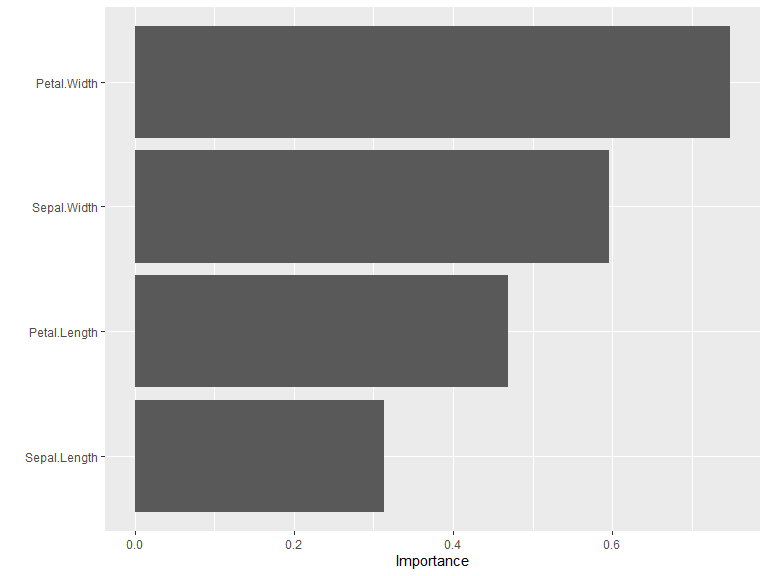
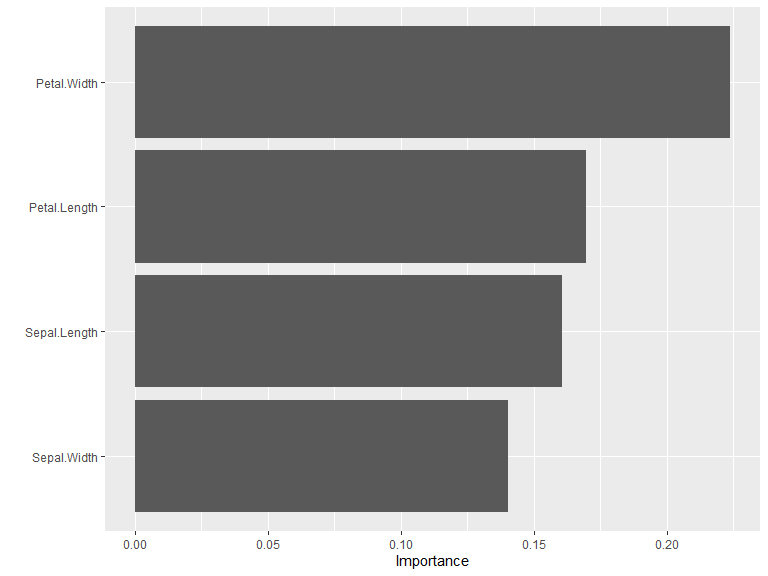
Update README

diff --git a/README.md b/README.md
@@ -14,7 +14,7 @@ status](https://www.r-pkg.org/badges/version/kindling)](https://CRAN.R-project.o
 
 ## Package overview
 
-Title: ***Higher-Level Interface of Torch to Auto-Train Neural
+Title: ***Higher-Level Interface of ‘torch’ Package to Auto-Train Neural
 Networks***
 
 Whether you’re generating neural network architectures expressions or
@@ -65,12 +65,13 @@ Or install the development version from GitHub:
 ``` r
 # install.packages("pak")
 pak::pak("joshuamarie/kindling")
+## devtools::install_github("joshuamarie/kindling") 
 ```
 
 ## Usage: Three Levels of Interaction
 
 `{kindling}` is powered by R’s metaprogramming capabilities through
-*code generation*. Generated `torch::nn_module` expressions power the
+*code generation*. Generated `torch::nn_module()` expressions power the
 training functions, which in turn serve as engines for `{tidymodels}`
 integration. This architecture gives you flexibility to work at whatever
 abstraction level suits your task.
@@ -82,6 +83,13 @@ library(kindling)
 #> The following object is masked from 'package:base':
 #> 
 #>     args
+```
+
+Before starting, you need to install LibTorch, the backend of PyTorch
+which also the backend of `{torch}` R package:
+
+``` r
+torch::install_torch()
 ```
 
 ### Level 1: Code Generation for `torch::nn_module`
@@ -183,7 +191,7 @@ Two kinds of `predict()` usage:
     #>             predicted
     #> actual       setosa versicolor virginica
     #>   setosa         50          0         0
-    #>   versicolor      0         47         3
+    #>   versicolor      0         49         1
     #>   virginica       0          1        49
     ```
 
@@ -198,7 +206,7 @@ Two kinds of `predict()` usage:
     #>             predicted
     #> actual       setosa versicolor virginica
     #>   setosa         10          0         0
-    #>   versicolor      0          9         1
+    #>   versicolor      0         10         0
     #>   virginica       0          0        10
     ```
 
@@ -265,7 +273,7 @@ hyperparameter tuning via `{tune}` with searchable parameters.
 The current searchable parameters under `{kindling}`:
 
 - Layer widths (neurons per layer)
-- Network depth (number of hidden layers - coming soon)
+- Network depth (number of hidden layers)
 - Activation function combinations
 - Output activation
 - Optimizer (Type of optimization algorithm)
@@ -279,6 +287,7 @@ The searchable parameters outside from `{kindling}`, i.e. under
 Here’s an example:
 
 ``` r
+# library(tidymodels)
 box::use(
     kindling[
         mlp_kindling, hidden_neurons, activations, output_activation, grid_depth
@@ -358,10 +367,10 @@ networks. Two primary algorithms are available:
     ``` r
     garson(model, bar_plot = FALSE)
     #>        x_names y_names  rel_imp
-    #> 1  Sepal.Width Species 28.02159
-    #> 2 Petal.Length Species 26.55890
-    #> 3  Petal.Width Species 24.75992
-    #> 4 Sepal.Length Species 20.65959
+    #> 1  Petal.Width Species 29.58124
+    #> 2 Petal.Length Species 28.17735
+    #> 3 Sepal.Length Species 21.53951
+    #> 4  Sepal.Width Species 20.70189
     ```
 
 2.  Olden’s Algorithm
@@ -369,10 +378,10 @@ networks. Two primary algorithms are available:
     ``` r
     olden(model, bar_plot = FALSE)
     #>        x_names y_names    rel_imp
-    #> 1  Petal.Width Species  0.7488315
-    #> 2  Sepal.Width Species -0.5967398
-    #> 3 Petal.Length Species  0.4686559
-    #> 4 Sepal.Length Species -0.3131365
+    #> 1  Petal.Width Species -0.2239200
+    #> 2 Petal.Length Species -0.1697019
+    #> 3 Sepal.Length Species  0.1605987
+    #> 4  Sepal.Width Species  0.1404603
     ```
 
 ### Integration with {vip}
